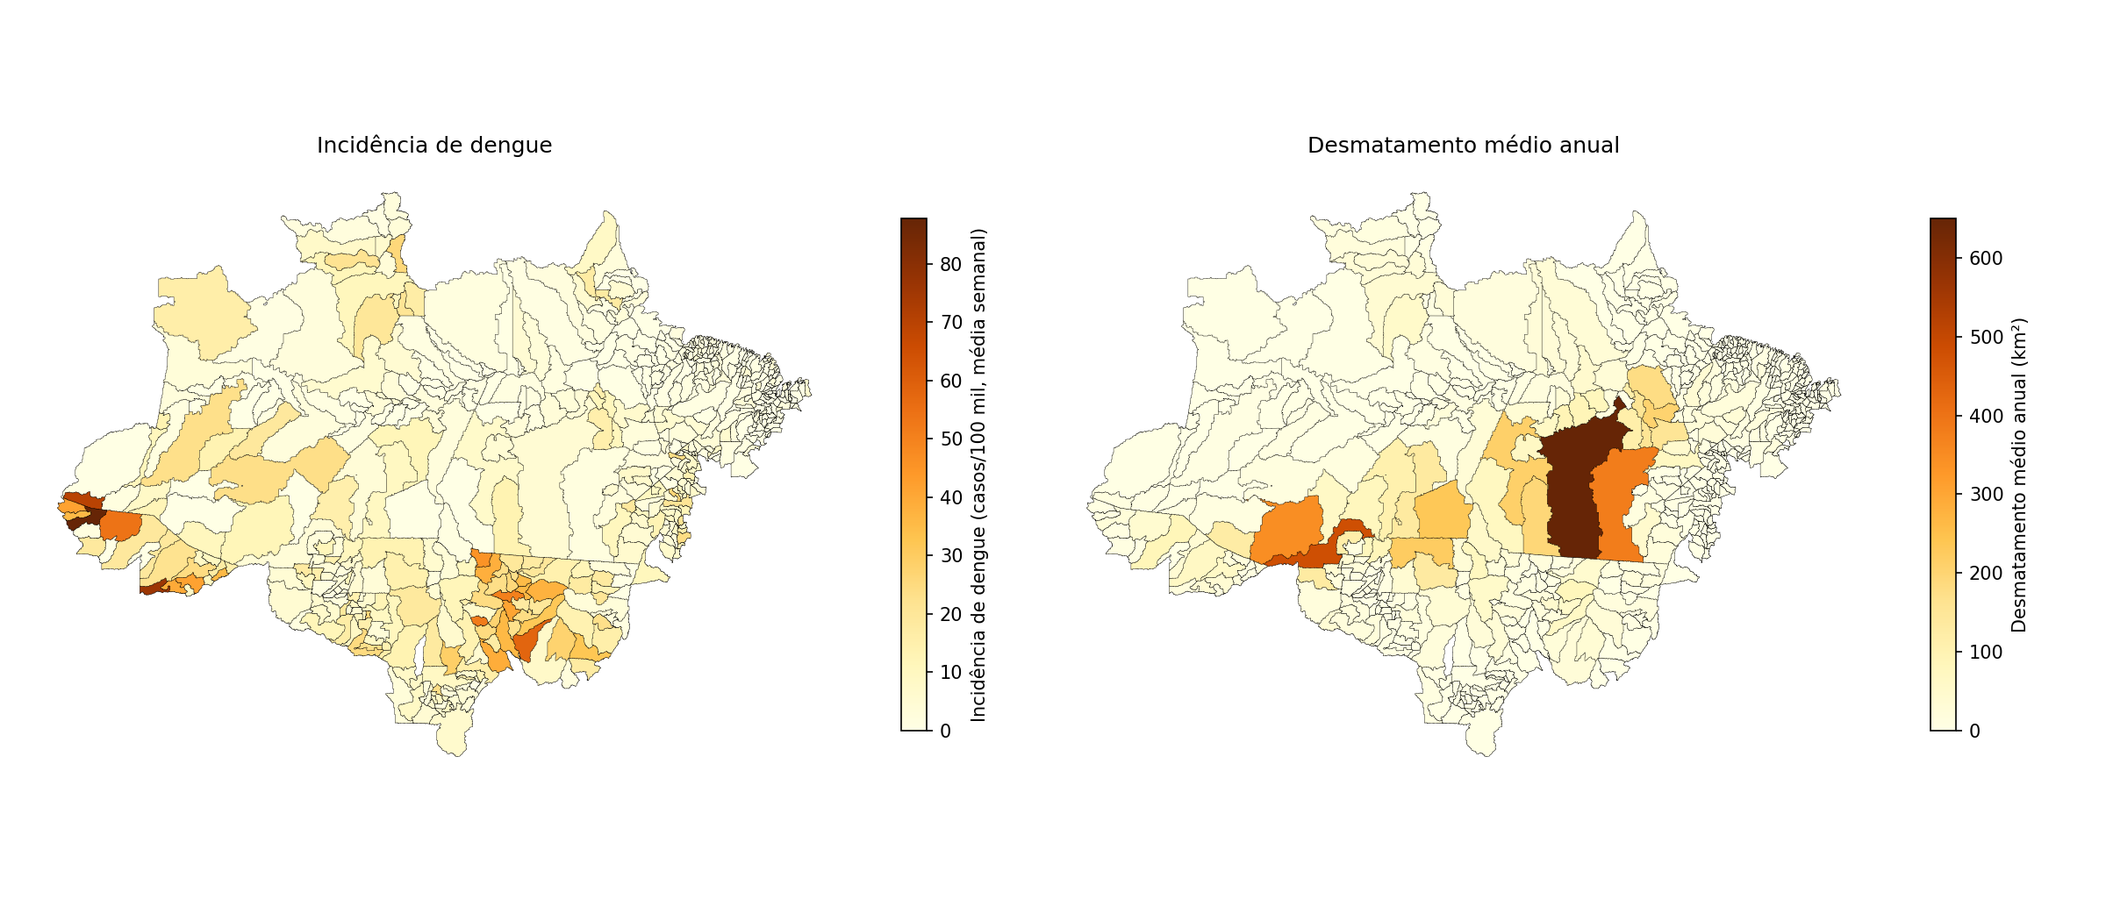
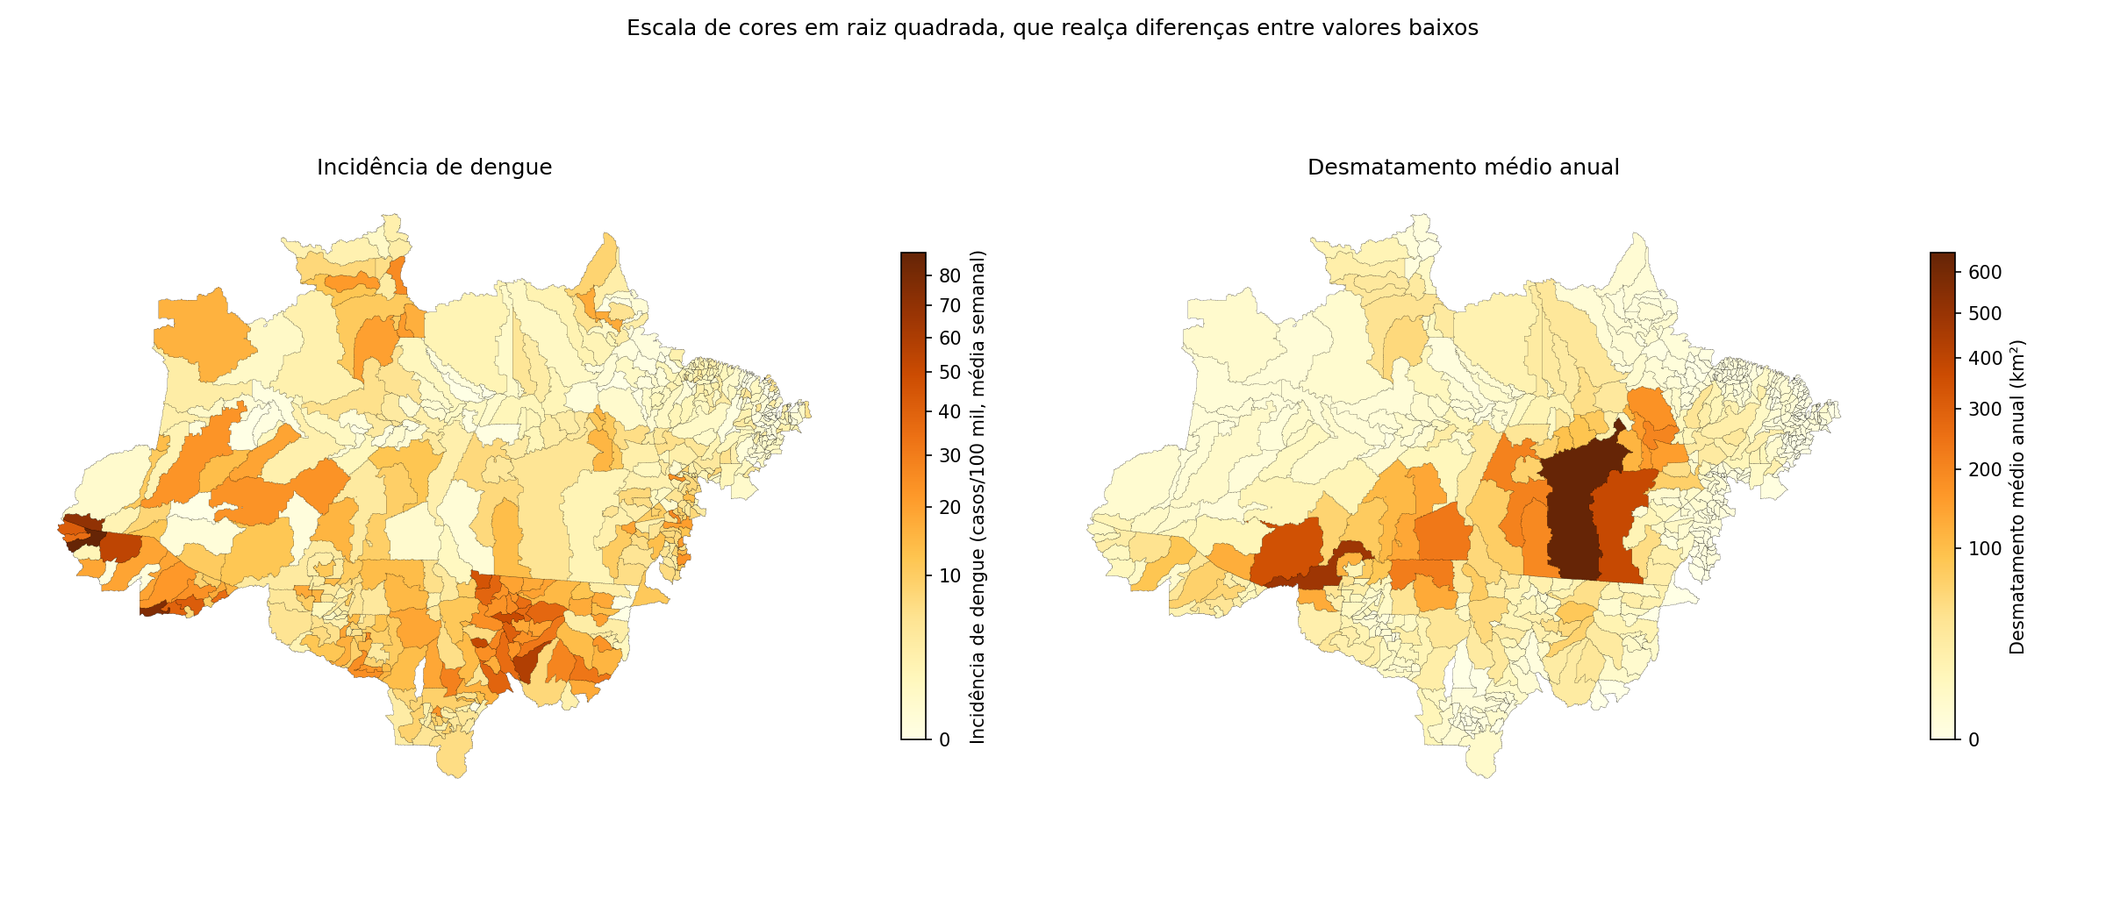
feat: figuras no estilo do artigo (moldura, classes, coeficientes e p-valores, correlação contra o artigo); escalas de potência e LOWESS na EDA

diff --git a/models/run_models.py b/models/run_models.py
@@ -10,6 +10,7 @@ from pathlib import Path
 import geopandas as gpd
 import libpysal
 import matplotlib.patches as mpatches
+from matplotlib.colors import BoundaryNorm
 import matplotlib.pyplot as plt
 import numpy as np
 import pandas as pd
@@ -25,6 +26,7 @@ from spreg import OLS
 from statsmodels.stats.outliers_influence import variance_inflation_factor
 
 plt.switch_backend("Agg")  # sem janela: o pipeline só grava figuras
+plt.rcParams["hatch.linewidth"] = 0.4
 
 ROOT = Path(__file__).resolve().parent.parent
 DATA_PATH = ROOT / "data" / "processed" / "deforestation_dengue_geo.gpkg"
@@ -44,13 +46,13 @@ LABELS = {
     "std_agri_credit": "Crédito agrícola por área", "std_live_credit": "Crédito pecuário por área",
     "std_crop_area": "Área de lavoura por área", "dengue_incidence_log": "log(1 + incidência de dengue)",
 }  # fmt: skip
-LISA_COLORS = {0: "lightgrey", 1: "red", 2: "lightblue", 3: "blue", 4: "pink"}
+LISA_COLORS = {0: "#f0f0eb", 1: "#e41a1c", 2: "#1fb5f0", 3: "#1b5fd6", 4: "#f7b6bd"}  # cores do artigo (Fig. 3)
 LISA_LABELS = {
-    0: "Não Significativo",
-    1: "Alto-Alto (Hotspot)",
-    2: "Baixo-Alto",
-    3: "Baixo-Baixo (Coldspot)",
-    4: "Alto-Baixo",
+    0: "Não significativo",
+    1: "Alto-Alto (cluster)",
+    2: "Baixo-Alto (outlier)",
+    3: "Baixo-Baixo (cluster)",
+    4: "Alto-Baixo (outlier)",
 }
 
 
@@ -112,10 +114,43 @@ def save_fig(fig, name: str, tight: bool = True, **kwargs) -> None:
     plt.close(fig)
 
 
-def plot_map(gdf, column, ax, cmap, label=None, **kwargs) -> None:
+def frame_map(ax, bounds, decorate) -> None:
+    """Moldura no estilo do artigo: caixa, graticule em graus e, se 'full', seta norte e barra de escala."""
+    xmin, ymin, xmax, ymax = bounds
+    ax.set_xlim(xmin - 0.5, xmax + 0.5)
+    ax.set_ylim(ymin - 0.5, ymax + 0.5)
+    ax.axis("on")
+    if decorate != "full":
+        ax.set_xticks([])
+        ax.set_yticks([])
+        return
+    ax.set_xticks([-70, -60, -50], [f"{-x}°O" for x in (-70, -60, -50)], fontsize=8)
+    ax.set_yticks([-10, 0], ["10°S", "0°"], fontsize=8)
+    km_deg = 111.32 * np.cos(np.radians(10))  # 1° de longitude a ~10°S
+    x0, y0 = xmax - 6, ymin + 0.4
+    ax.plot([x0, x0 + 500 / km_deg], [y0, y0], "k-", lw=3, solid_capstyle="butt")
+    ax.text(x0 + 250 / km_deg, y0 + 0.4, "500 km", ha="center", fontsize=8)
+    ax.annotate("N", xy=(xmin + 1.5, ymax - 0.2), xytext=(xmin + 1.5, ymax - 2.8), ha="center", fontsize=10,
+                arrowprops={"arrowstyle": "-|>", "color": "k"})  # fmt: skip
+
+
+def plot_map(gdf, column, ax, cmap, label=None, bins=None, extend="neither", decorate="box", **kwargs) -> None:
+    """Mapa coroplético; com `bins`, classes discretas como nas figuras do artigo."""
+    legend_kwds = {"label": label, "shrink": 0.7}
+    if bins is not None:
+        n_colors = len(bins) - 1 + (2 if extend == "both" else 0)
+        cmap = plt.get_cmap(cmap, n_colors)
+        kwargs["norm"] = BoundaryNorm(bins, n_colors, extend=extend)
+        legend_kwds["extend"] = extend
     gdf.plot(column=column, cmap=cmap, legend=True, ax=ax, edgecolor="black", linewidth=0.1,
-             legend_kwds={"label": label, "shrink": 0.7}, **kwargs)  # fmt: skip
-    ax.axis("off")
+             legend_kwds=legend_kwds, **kwargs)  # fmt: skip
+    frame_map(ax, gdf.total_bounds, decorate)
+
+
+def r2_bins(*values):
+    low = np.floor(min(v.min() for v in values) * 10) / 10
+    high = np.ceil(max(v.max() for v in values) * 10) / 10
+    return np.round(np.arange(low, high + 0.05, 0.1), 1)
 
 
 def with_gdp_log(cols: list[str]) -> list[str]:
@@ -135,16 +170,25 @@ def run_moran(gdf, w) -> dict:
     for q in (1, 2, 3, 4):
         gdf.loc[(lisa.q == q) & significant, "lisa_cluster"] = q
 
-    fig, ax = plt.subplots(figsize=(10, 8))
+    fig, (ax, ax_moran) = plt.subplots(1, 2, figsize=(16, 7), gridspec_kw={"width_ratios": [2.2, 1]})
     patches = []
     for cluster, color in LISA_COLORS.items():
         subset = gdf[gdf["lisa_cluster"] == cluster]
         if not subset.empty:
-            subset.plot(ax=ax, color=color, edgecolor="black", linewidth=0.1)
-            patches.append(mpatches.Patch(color=color, label=f"{LISA_LABELS[cluster]} (n = {len(subset)})"))
-    ax.legend(handles=patches, loc="lower left", title="Clusters LISA")
-    ax.set_title(f"Clusters LISA da incidência de dengue (I de Moran global = {mi.I:.3f}; p < 0.05)")
-    ax.axis("off")
+            subset.plot(ax=ax, color=color, edgecolor="black", linewidth=0.15)
+            patches.append(mpatches.Patch(facecolor=color, edgecolor="black", label=f"{LISA_LABELS[cluster]} (n = {len(subset)})"))
+    ax.legend(handles=patches, loc="lower left", title="Legenda", fontsize=9, fancybox=False, edgecolor="black")
+    ax.set_title(f"Índice local de associação espacial (LISA) da incidência de dengue\n(I de Moran global = {mi.I:.3f}; p < 0.05)")
+    frame_map(ax, gdf.total_bounds, "full")
+
+    lag = libpysal.weights.lag_spatial(w, lisa.z)
+    ax_moran.scatter(lisa.z, lag, c=gdf["lisa_cluster"].map(LISA_COLORS), s=14, edgecolor="none")
+    ax_moran.axhline(0, color="k", lw=0.8)
+    ax_moran.axvline(0, color="k", lw=0.8)
+    line = np.array([lisa.z.min(), lisa.z.max()])
+    ax_moran.plot(line, mi.I * line, "k--", lw=1, label=f"inclinação = I = {mi.I:.3f}")
+    ax_moran.set(title="Diagrama de Moran", xlabel="Incidência (z-score)", ylabel="Média dos vizinhos (z-score)")
+    ax_moran.legend(loc="upper left", fontsize=9)
     save_fig(fig, "07_lisa_clusters.png", tight=False, bbox_inches="tight")
     return metrics
 
@@ -211,7 +255,7 @@ def plot_baseline_diagnostics(gdf, gwr_r2: float) -> None:
     fig, axes = plt.subplots(1, 2, figsize=(14, 6))
     gdf["r2_local_gwr"].hist(bins=30, ax=axes[0], edgecolor="k", grid=False)
     axes[0].set(title="Distribuição do R² local", xlabel="R² local", ylabel="Municípios")
-    plot_map(gdf, "r2_local_gwr", axes[1], "YlOrBr", "R² local")
+    plot_map(gdf, "r2_local_gwr", axes[1], "YlOrBr", "R² local", bins=r2_bins(gdf["r2_local_gwr"]))
     axes[1].set_title("R² local por município")
     fig.suptitle(f"Cenário A: GWR adaptativo (bisquare), 9 variáveis, escala original (R² global = {gwr_r2:.3f})")
     save_fig(fig, "09_gwr_r2_local.png")
@@ -244,11 +288,11 @@ def run_transformed(gdf, w, coords, gwr_r2: float) -> dict:
     gdf["r2_local_gwr_transformed"] = results.localR2
 
     base, trans = gdf["r2_local_gwr"], gdf["r2_local_gwr_transformed"]
-    limits = {"vmin": min(base.min(), trans.min()), "vmax": max(base.max(), trans.max())}
+    bins = r2_bins(base, trans)
     fig, axes = plt.subplots(1, 2, figsize=(16, 7))
-    plot_map(gdf, "r2_local_gwr", axes[0], "YlOrBr", "R² local", **limits)
+    plot_map(gdf, "r2_local_gwr", axes[0], "YlOrBr", "R² local", bins=bins)
     axes[0].set_title(f"A. escala original (R² global = {gwr_r2:.3f})")
-    plot_map(gdf, "r2_local_gwr_transformed", axes[1], "YlOrBr", "R² local", **limits)
+    plot_map(gdf, "r2_local_gwr_transformed", axes[1], "YlOrBr", "R² local", bins=bins)
     axes[1].set_title(f"B. log(1 + x) e z-score (R² global = {float(results.R2):.3f})")
     fig.suptitle("R² local do GWR adaptativo (bisquare), 9 variáveis, na mesma escala de cores")
     save_fig(fig, "11_gwr_r2_comparison.png")
@@ -266,23 +310,36 @@ def run_transformed(gdf, w, coords, gwr_r2: float) -> dict:
 
 
 def plot_paper_gwr(gdf, results) -> None:
-    """R² local e coeficientes locais (desmatamento, PIB per capita) do GWR fixo da reprodução do artigo."""
-    panels = {
-        "R² local": results.localR2,
-        "Coeficiente local do desmatamento (por área)": results.params[:, 1],
-        "Coeficiente local do PIB per capita": results.params[:, 4],
+    """Cenário C no formato das Figs. 5 a 9 do artigo: R² local; coeficientes (A) e p-valores (B) por variável."""
+    r2 = results.localR2
+    fig, ax = plt.subplots(figsize=(9, 7))
+    gdf["_v"] = r2
+    plot_map(gdf, "_v", ax, "YlOrBr", "R² local", bins=r2_bins(r2), decorate="full")
+    ax.set_title("Cenário C: R² local do GWR gaussiano fixo (4 variáveis, escala original)")
+    save_fig(fig, "12_paper_gwr_r2.png")
+
+    variables = {  # título: (coluna em params/tvalues, fator de unidade, unidade do coeficiente)
+        "Desmatamento": (1, 1, "por km²/km²"),
+        "Crédito agrícola": (2, 1000, "por mil R$/km²"),
+        "Crédito pecuário": (3, 1000, "por mil R$/km²"),
+        "PIB per capita": (4, 1, "por mil R$/hab."),
     }
-    fig, axes = plt.subplots(1, 3, figsize=(18, 6))
-    for ax, (title, values) in zip(axes, panels.items()):
-        gdf["_v"] = values
-        lo, hi = np.percentile(values, [5, 95])  # corta os extremos para a escala não ser dominada por outliers
-        if title != "R² local":  # coeficientes: escala simétrica, para o branco marcar o zero
-            lo, hi = -max(abs(lo), abs(hi)), max(abs(lo), abs(hi))
-        plot_map(gdf, "_v", ax, "YlOrBr" if title == "R² local" else "RdBu_r", title.split(" (")[0], vmin=lo, vmax=hi)
-        ax.set_title(title)
+    p_bins = [0, 0.01, 0.05, 0.1, 0.2, 0.4, 0.6, 0.8, 1.0]
+    fig, axes = plt.subplots(2, 4, figsize=(22, 9))
+    for col, (title, (k, factor, unit)) in enumerate(variables.items()):
+        gdf["_v"] = results.params[:, k] * factor
+        limit = np.percentile(np.abs(gdf["_v"]), 95)  # extremos agrupados nas classes das pontas
+        plot_map(gdf, "_v", axes[0, col], "RdBu_r", f"Coeficiente ({unit})", bins=np.linspace(-limit, limit, 9), extend="both")
+        axes[0, col].set_title(title)
+        gdf["_v"] = 2 * norm.sf(np.abs(results.tvalues[:, k]))
+        plot_map(gdf, "_v", axes[1, col], "YlGn", "p-valor", bins=p_bins)
+        for row, letter in enumerate("AB"):
+            axes[row, col].text(0.03, 0.04, letter, transform=axes[row, col].transAxes, fontsize=14,
+                                fontweight="bold", bbox={"facecolor": "white", "edgecolor": "black"})  # fmt: skip
     gdf.drop(columns="_v", inplace=True)
-    fig.suptitle("Cenário C: GWR gaussiano fixo, 4 variáveis, escala original (cores truncadas nos percentis 5 e 95)")
-    save_fig(fig, "12_paper_gwr_local.png")
+    fig.suptitle("Cenário C: (A) coeficientes locais do GWR e (B) p-valores (aproximação normal); nos coeficientes, "
+                 "as classes das pontas reúnem os valores acima do percentil 95 de |coef.|")
+    save_fig(fig, "13_paper_gwr_coef_pvalues.png")
 
 
 def run_paper(gdf, w, coords) -> dict:

diff --git a/eda/03_eda_pre_modeling.py b/eda/03_eda_pre_modeling.py
@@ -7,6 +7,9 @@ import matplotlib.pyplot as plt
 import numpy as np
 import pandas as pd
 import seaborn as sns
+from matplotlib.colors import PowerNorm
+from scipy.stats import spearmanr
+from statsmodels.nonparametric.smoothers_lowess import lowess
 
 plt.switch_backend("Agg")  # sem janela: o pipeline só grava figuras
 
@@ -82,11 +85,14 @@ def plot_distributions(df):
     fig, axes = panel_grid(MODEL_VARS, 4, 3)
     for ax, col in zip(axes, MODEL_VARS):
         df[col].hist(ax=ax, bins=40, edgecolor="k", color="lightblue", grid=False)
+        median = df[col].median()
+        ax.axvline(median, color="crimson", ls="--", lw=1)
+        ax.text(0.97, 0.92, f"mediana = {median:.4g}", transform=ax.transAxes, ha="right", fontsize=8, color="crimson")
         ax.set_title(short(col), fontsize=10)
         ax.set_xlabel(unit(col))
         ax.set_ylabel("Municípios")
         hide_spines(ax)
-    fig.suptitle("Distribuição das variáveis (560 municípios)")
+    fig.suptitle("Distribuição das variáveis (560 municípios; linha tracejada = mediana)")
     save(fig, "01_distributions.png")
 
     # Escalas muito diferentes: boxplot em log(1+x) para que todas as variáveis sejam legíveis.
@@ -99,54 +105,105 @@ def plot_distributions(df):
     save(fig, "02_boxplots.png")
 
 
+# Variáveis e ordem da Fig. 4 do artigo (resposta primeiro)
+PAPER_ORDER = ["dengue_incidence", "std_deforestation", "std_agri_credit", "std_live_credit", "gdp_capita",
+               "std_rural_pop", "std_urban_pop", "dist_roads", "average_min_precipitation", "std_crop_area"]  # fmt: skip
+# Correlações lidas da Fig. 4 do artigo (n = 550), por par (linha, coluna) na ordem acima
+PAPER_CORR = {
+    (1, 0): 0.18, (2, 0): 0.36, (2, 1): 0.05, (3, 0): 0.25, (3, 1): 0.06, (3, 2): 0.30, (4, 0): 0.36, (4, 1): 0.07,
+    (4, 2): 0.60, (4, 3): 0.26, (5, 0): -0.20, (5, 1): 0.06, (5, 2): -0.18, (5, 3): -0.28, (5, 4): -0.16,
+    (6, 0): -0.04, (6, 1): -0.01, (6, 2): -0.05, (6, 3): -0.10, (6, 4): 0.07, (6, 5): 0.17, (7, 0): -0.02,
+    (7, 1): -0.05, (7, 2): -0.08, (7, 3): -0.11, (7, 4): -0.10, (7, 6): -0.03, (8, 0): -0.15, (8, 1): -0.11,
+    (8, 2): -0.21, (8, 3): -0.26, (8, 4): -0.19, (8, 5): 0.14, (8, 6): 0.06, (8, 7): 0.50, (9, 0): 0.34,
+    (9, 1): 0.04, (9, 2): 0.70, (9, 3): 0.09, (9, 4): 0.54, (9, 5): -0.14, (9, 6): -0.03, (9, 7): -0.11,
+    (9, 8): -0.22,
+}  # fmt: skip
+
+
+def corr_triangle(matrix, ax, title, annot):
+    """Triângulo inferior no estilo da Fig. 4 do artigo: diagonal incluída, escala fixa de -1 a 1, barra horizontal."""
+    names = [short(c).replace("\n", " ") for c in PAPER_ORDER]
+    sns.heatmap(
+        pd.DataFrame(matrix, index=names, columns=names), mask=np.triu(np.ones_like(matrix, dtype=bool), k=1),
+        annot=annot, fmt=".2f", cmap="RdBu", vmin=-1, vmax=1, linewidths=0.5, linecolor="lightgrey", ax=ax,
+        cbar_kws={"orientation": "horizontal", "shrink": 0.6, "pad": 0.27, "label": "Correlação de Pearson"},
+    )  # fmt: skip
+    ax.set_title(title)
+
+
 def plot_correlation(df):
-    corr = df[MODEL_VARS].corr().rename(index=lambda c: short(c).replace("\n", " "), columns=lambda c: short(c).replace("\n", " "))
-    corr = corr.iloc[1:, :-1]  # sem a diagonal nem o triângulo superior
+    data = df[PAPER_ORDER].copy()
+    data["dist_roads"] = data["dist_roads"].fillna(data["dist_roads"].median())  # como nos modelos
+    ours = data.corr().values
+
+    fig, ax = plt.subplots(figsize=(10, 9))
+    corr_triangle(ours, ax, "Matriz de correlação (560 municípios)", annot=True)
+    save(fig, "03_correlation_matrix.png")
+
+    # Comparação com o artigo: triângulo inferior = este repositório; superior = Fig. 4 do artigo
+    combined = ours.copy()
+    for (i, j), value in PAPER_CORR.items():
+        combined[j, i] = value
+    names = [short(c).replace("\n", " ") for c in PAPER_ORDER]
     fig, ax = plt.subplots(figsize=(11, 9))
     sns.heatmap(
-        corr, mask=np.triu(np.ones_like(corr, dtype=bool), k=1), annot=True, fmt=".2f", cmap="RdBu_r", center=0,
-        cbar_kws={"label": "Correlação de Pearson"}, ax=ax,
-    )
-    ax.set_title("Correlação entre as variáveis (560 municípios)")
-    save(fig, "03_correlation_matrix.png")
+        pd.DataFrame(combined, index=names, columns=names), annot=True, fmt=".2f", cmap="RdBu", vmin=-1, vmax=1,
+        linewidths=0.5, linecolor="lightgrey", ax=ax,
+        cbar_kws={"orientation": "horizontal", "shrink": 0.6, "pad": 0.12, "label": "Correlação de Pearson"},
+    )  # fmt: skip
+    ax.set_title("Correlações: este repositório (abaixo da diagonal, n = 560) e artigo (acima, Fig. 4, n = 550)")
+    ax.xaxis.tick_top()
+    plt.setp(ax.get_xticklabels(), rotation=45, ha="left")
+    save(fig, "14_correlation_vs_paper.png")
 
 
 def plot_scatters(df):
     predictors = [c for c in MODEL_VARS if c != "dengue_incidence"]
     fig, axes = panel_grid(predictors, 5, 3.5)
     for ax, col in zip(axes, predictors):
-        ax.scatter(df[col], df["dengue_incidence"], alpha=0.3, s=15, color="steelblue")
+        valid = df[col].notna()  # dist_roads é ausente onde não há desmatamento
+        x, y = df.loc[valid, col], df.loc[valid, "dengue_incidence"]
+        ax.scatter(x, y, alpha=0.3, s=15, color="steelblue")
+        trend = lowess(y, x, frac=0.6)  # tendência sem supor reta e sem extrapolar abaixo de zero
+        ax.plot(trend[:, 0], trend[:, 1], color="crimson", lw=1.8)
+        positive = x[x > 0]
+        ax.set_xscale("symlog", linthresh=positive.quantile(0.1) if len(positive) else 1)  # linear perto de 0, log acima
+        rho = spearmanr(x, y)[0]
+        ax.text(0.97, 0.92, f"ρ = {rho:.2f}", transform=ax.transAxes, ha="right", fontsize=9)
         ax.set_title(short(col), fontsize=10)
         ax.set_xlabel(unit(col))
         ax.set_ylabel("Dengue (casos/100 mil)")
-        fit = np.poly1d(np.polyfit(df[col].fillna(0), df["dengue_incidence"], 1))
-        x = np.linspace(df[col].min(), df[col].max(), 100)
-        ax.plot(x, fit(x), "r--", lw=1.5)
         hide_spines(ax)
-    fig.suptitle("Incidência de dengue contra cada preditor (linha tracejada: ajuste linear)")
+    fig.suptitle("Incidência de dengue contra cada preditor (eixo x simétrico-log; vermelho = LOWESS; ρ = Spearman)")
     save(fig, "04_scatter_plots.png")
+
+
+def map_panel(gdf, col, ax, cmap, label=None, gamma=0.5, **kwargs):
+    """Mapa com escala de cores em raiz quadrada (variáveis assimétricas) e dado ausente em cinza."""
+    values = gdf[col].dropna()
+    gdf.plot(
+        column=col, cmap=cmap, norm=PowerNorm(gamma, vmin=values.min(), vmax=values.max()), legend=True,
+        edgecolor="black", linewidth=0.1, ax=ax, legend_kwds={"label": label, "shrink": 0.6},
+        missing_kwds={"color": "lightgrey"}, **kwargs,
+    )  # fmt: skip
+    ax.axis("off")
 
 
 def plot_maps(gdf):
     fig, axes = plt.subplots(1, 2, figsize=(16, 7))
     for ax, col in zip(axes, ["dengue_incidence", "avg_deforestation"]):
-        gdf.plot(column=col, cmap="YlOrBr", legend=True, edgecolor="black", linewidth=0.2, ax=ax,
-                 legend_kwds={"label": LABELS[col], "shrink": 0.6})  # fmt: skip
+        map_panel(gdf, col, ax, "YlOrBr", LABELS[col])
         ax.set_title(short(col).replace("\n", " "))
-        ax.axis("off")
+    fig.suptitle("Escala de cores em raiz quadrada, que realça diferenças entre valores baixos")
     save(fig, "05_exploratory_map.png")
 
     predictors = [c for c in MODEL_VARS if c not in ["dengue_incidence", "avg_deforestation", "std_deforestation"]]
     fig, axes = panel_grid(predictors, 6, 4)
     for ax, col in zip(axes, predictors):
-        vmin, vmax = gdf[col].quantile([0.05, 0.95])
-        limits = {} if vmin == vmax else {"vmin": vmin, "vmax": vmax}
         cmap = "Greens" if any(key in col for key in ("precipitation", "crop", "agri")) else "YlOrBr"
-        gdf.plot(column=col, cmap=cmap, legend=True, edgecolor="black", linewidth=0.1, ax=ax,
-                 legend_kwds={"shrink": 0.6}, **limits)  # fmt: skip
+        map_panel(gdf, col, ax, cmap, gamma=0.3)
         ax.set_title(short(col), fontsize=10)
-        ax.axis("off")
-    fig.suptitle("Preditores por município (escala de cores truncada nos percentis 5 e 95)")
+    fig.suptitle("Preditores por município (escala de cores em potência 0,3, que realça diferenças entre valores baixos; cinza = sem dado)")
     save(fig, "06_predictors_maps.png")
 
 

diff --git a/README.md b/README.md
@@ -171,22 +171,35 @@ variáveis brutas, dá R² ajustado de apenas 0,44 pela fórmula do GWmodel).
 
 ## Figuras
 
-**Clusters LISA da incidência de dengue.** Hotspots em MT e AC; coldspots em MA e PA.
+Os mapas e a matriz de correlação seguem o estilo das figuras do artigo (moldura, classes discretas de cor, painéis A/B).
+
+**Clusters LISA da incidência de dengue** (cores e classes da Fig. 3 do artigo) e diagrama de Moran. Hotspots em MT e
+AC; coldspots em MA e PA.
 
 ![Clusters LISA](figures/07_lisa_clusters.png)
 
-**Cenário C: R² local e coeficientes locais do GWR do artigo** (cores truncadas nos percentis 5 e 95; escala dos
-coeficientes simétrica, branco = zero). O coeficiente do desmatamento muda de sinal no espaço.
+**Cenário C, coeficientes locais (A) e p-valores (B) do GWR do artigo**, no formato das Figs. 6 a 9. Os p-valores usam a
+aproximação normal dos t locais, sem correção para múltiplas comparações; os coeficientes dos créditos estão em mil R$/km².
 
-![GWR local da reprodução do artigo](figures/12_paper_gwr_local.png)
+![Coeficientes e p-valores do GWR](figures/13_paper_gwr_coef_pvalues.png)
+
+**Cenário C, R² local** (Fig. 5 do artigo).
+
+![R² local do cenário C](figures/12_paper_gwr_r2.png)
 
 **R² local do GWR adaptativo nos cenários A (original) e B (log1p + z-score), na mesma escala de cores.**
 
 ![R² local por cenário](figures/11_gwr_r2_comparison.png)
 
-Também em `figures/`: distribuições e boxplots em escala log (01, 02), correlações (03 original; 10 após a
-transformação do cenário B), dispersões (04), mapas exploratórios (05, 06), resíduos do OLS do cenário A (08) e R²
-local do cenário A (09). Todas as figuras têm título, eixos e unidades em português.
+**Correlações: este repositório (abaixo da diagonal) e artigo (acima, Fig. 4).** Os valores do artigo foram lidos da
+figura; alguns são tênues no PDF, então pode haver diferença de 0,01 a 0,02.
+
+![Correlações contra o artigo](figures/14_correlation_vs_paper.png)
+
+Também em `figures/`: distribuições com mediana (01) e boxplots em escala log (02), matriz de correlação (03),
+dispersões com tendência LOWESS e ρ de Spearman (04), mapas exploratórios e dos preditores em escala de potência (05, 06),
+resíduos do OLS do cenário A (08), R² local do cenário A (09) e correlação após a transformação do cenário B (10).
+Todas as figuras têm título, eixos e unidades em português.
 
 ## Como executar
 
@@ -210,7 +223,7 @@ Tempo total aproximado de 40 s, pico de 1,7 GB de RAM, com os dados brutos já b
 ```
 etl/01_download_data.py      download das fontes brutas em data/raw/
 etl/02_preprocess_data.py    base municipal em data/processed/ (CSV e GPKG)
-eda/03_eda_pre_modeling.py   estatísticas e figuras 01 a 06
-models/run_models.py         modelos, métricas em data/results/ e figuras 07 a 12
+eda/03_eda_pre_modeling.py   estatísticas e figuras 01 a 06 e 14
+models/run_models.py         modelos, métricas em data/results/ e figuras 07 a 13
 README_original.md           README anterior a esta revisão, para comparação
 ```
